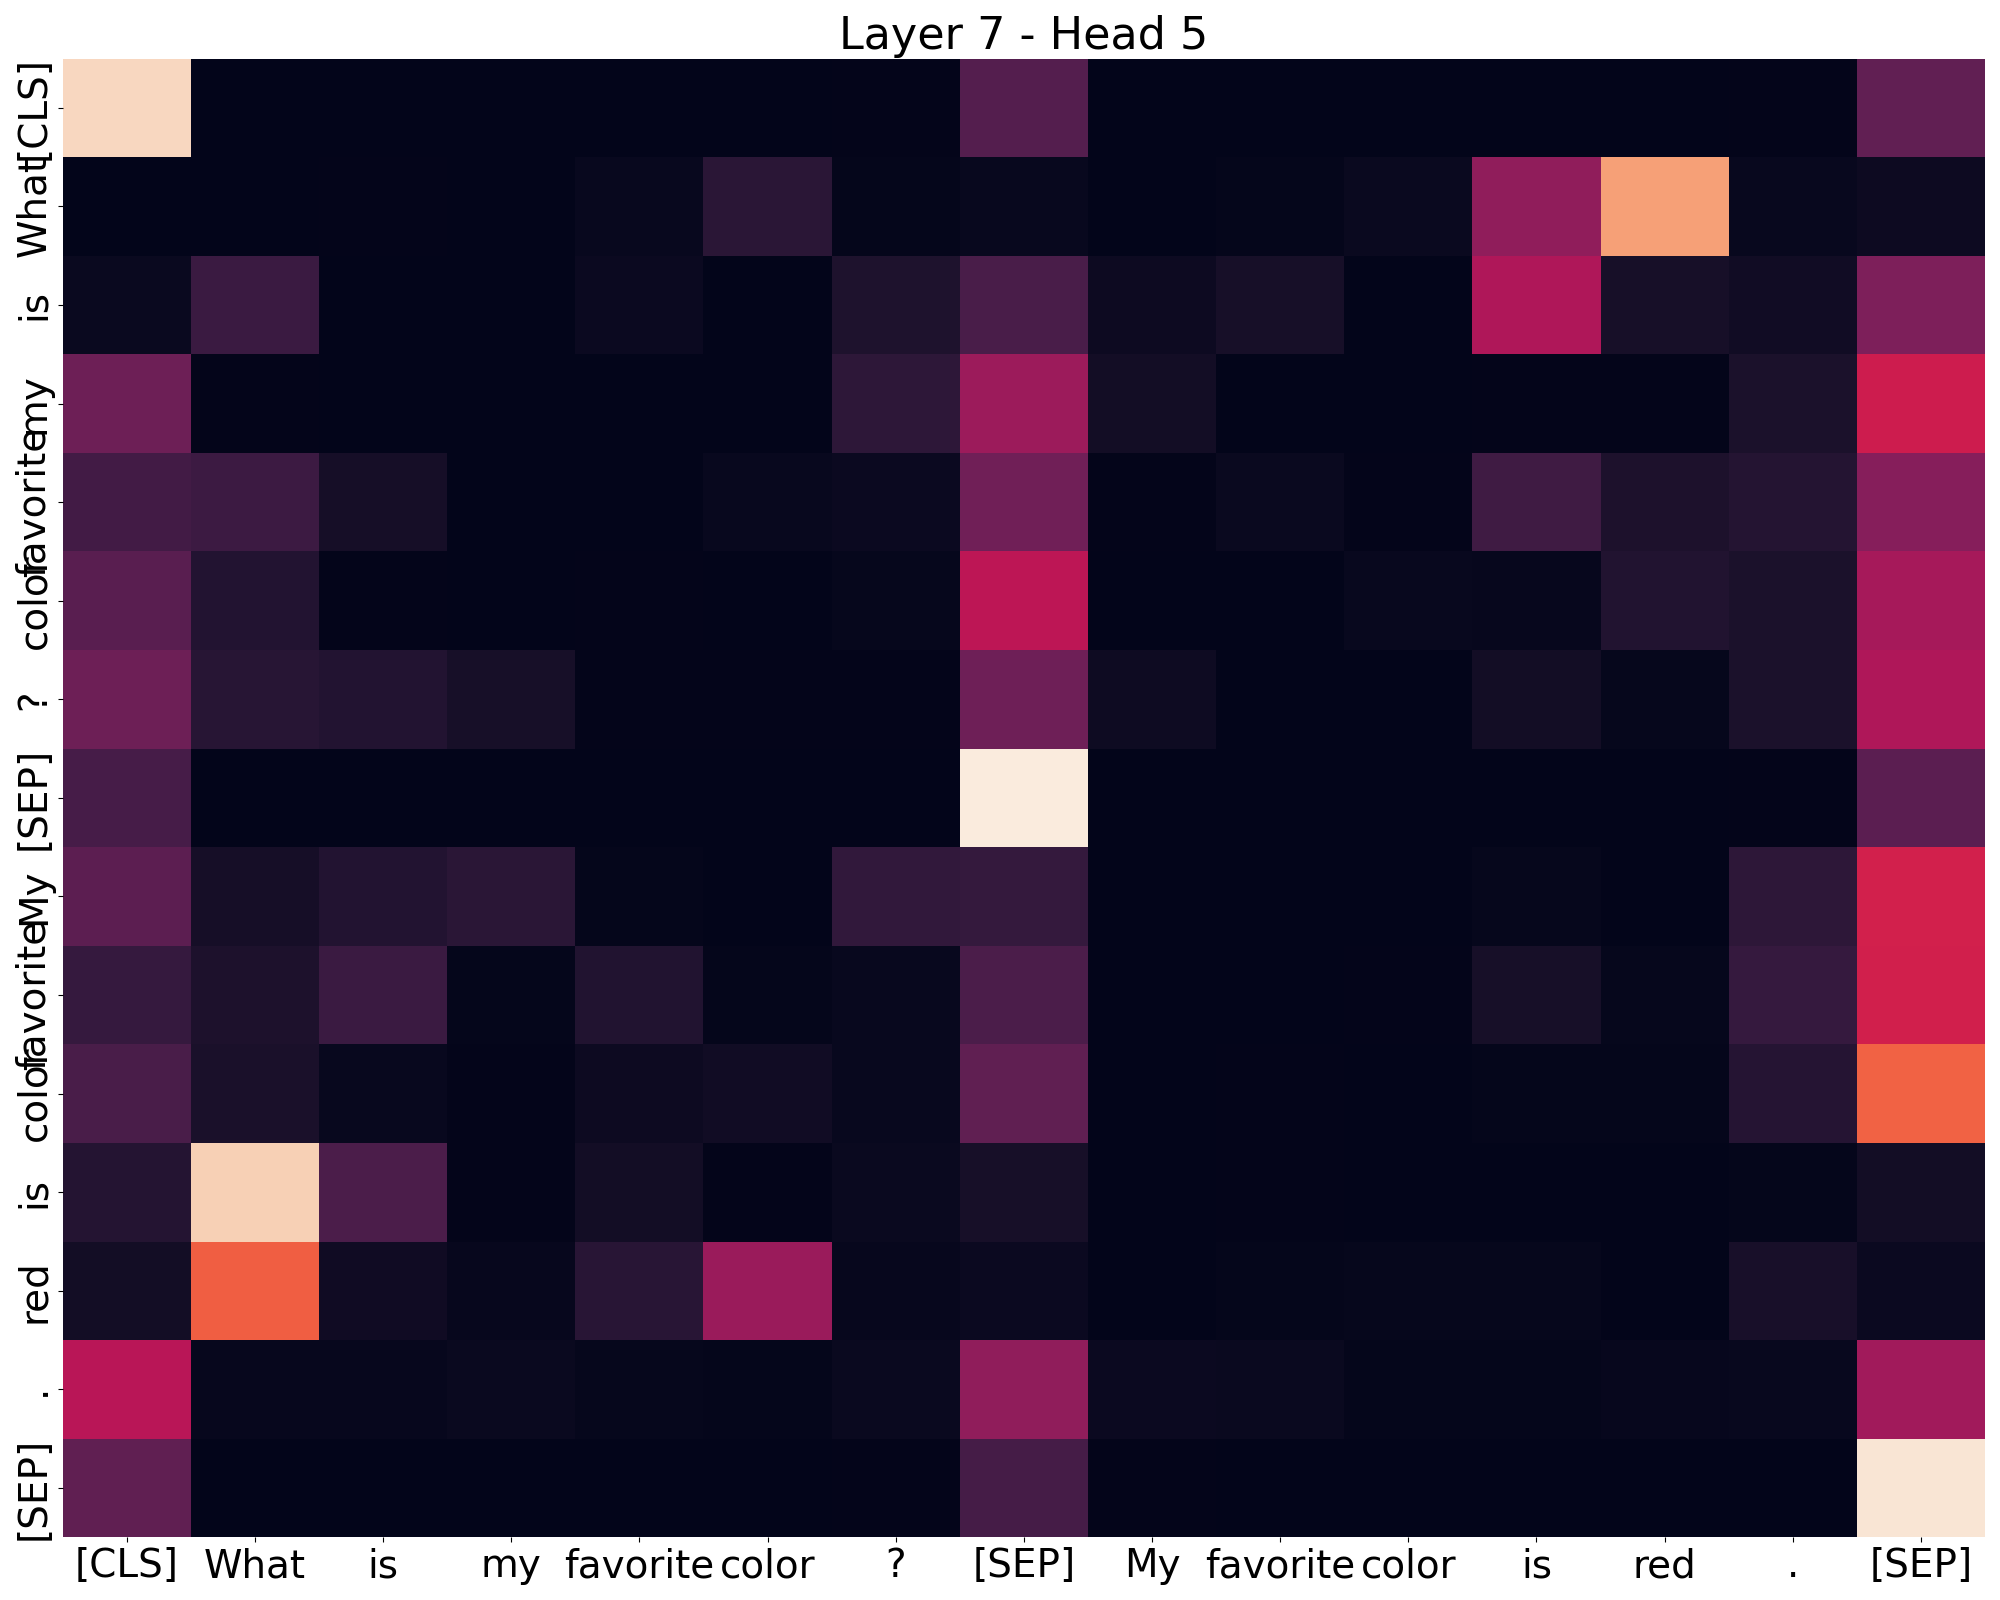
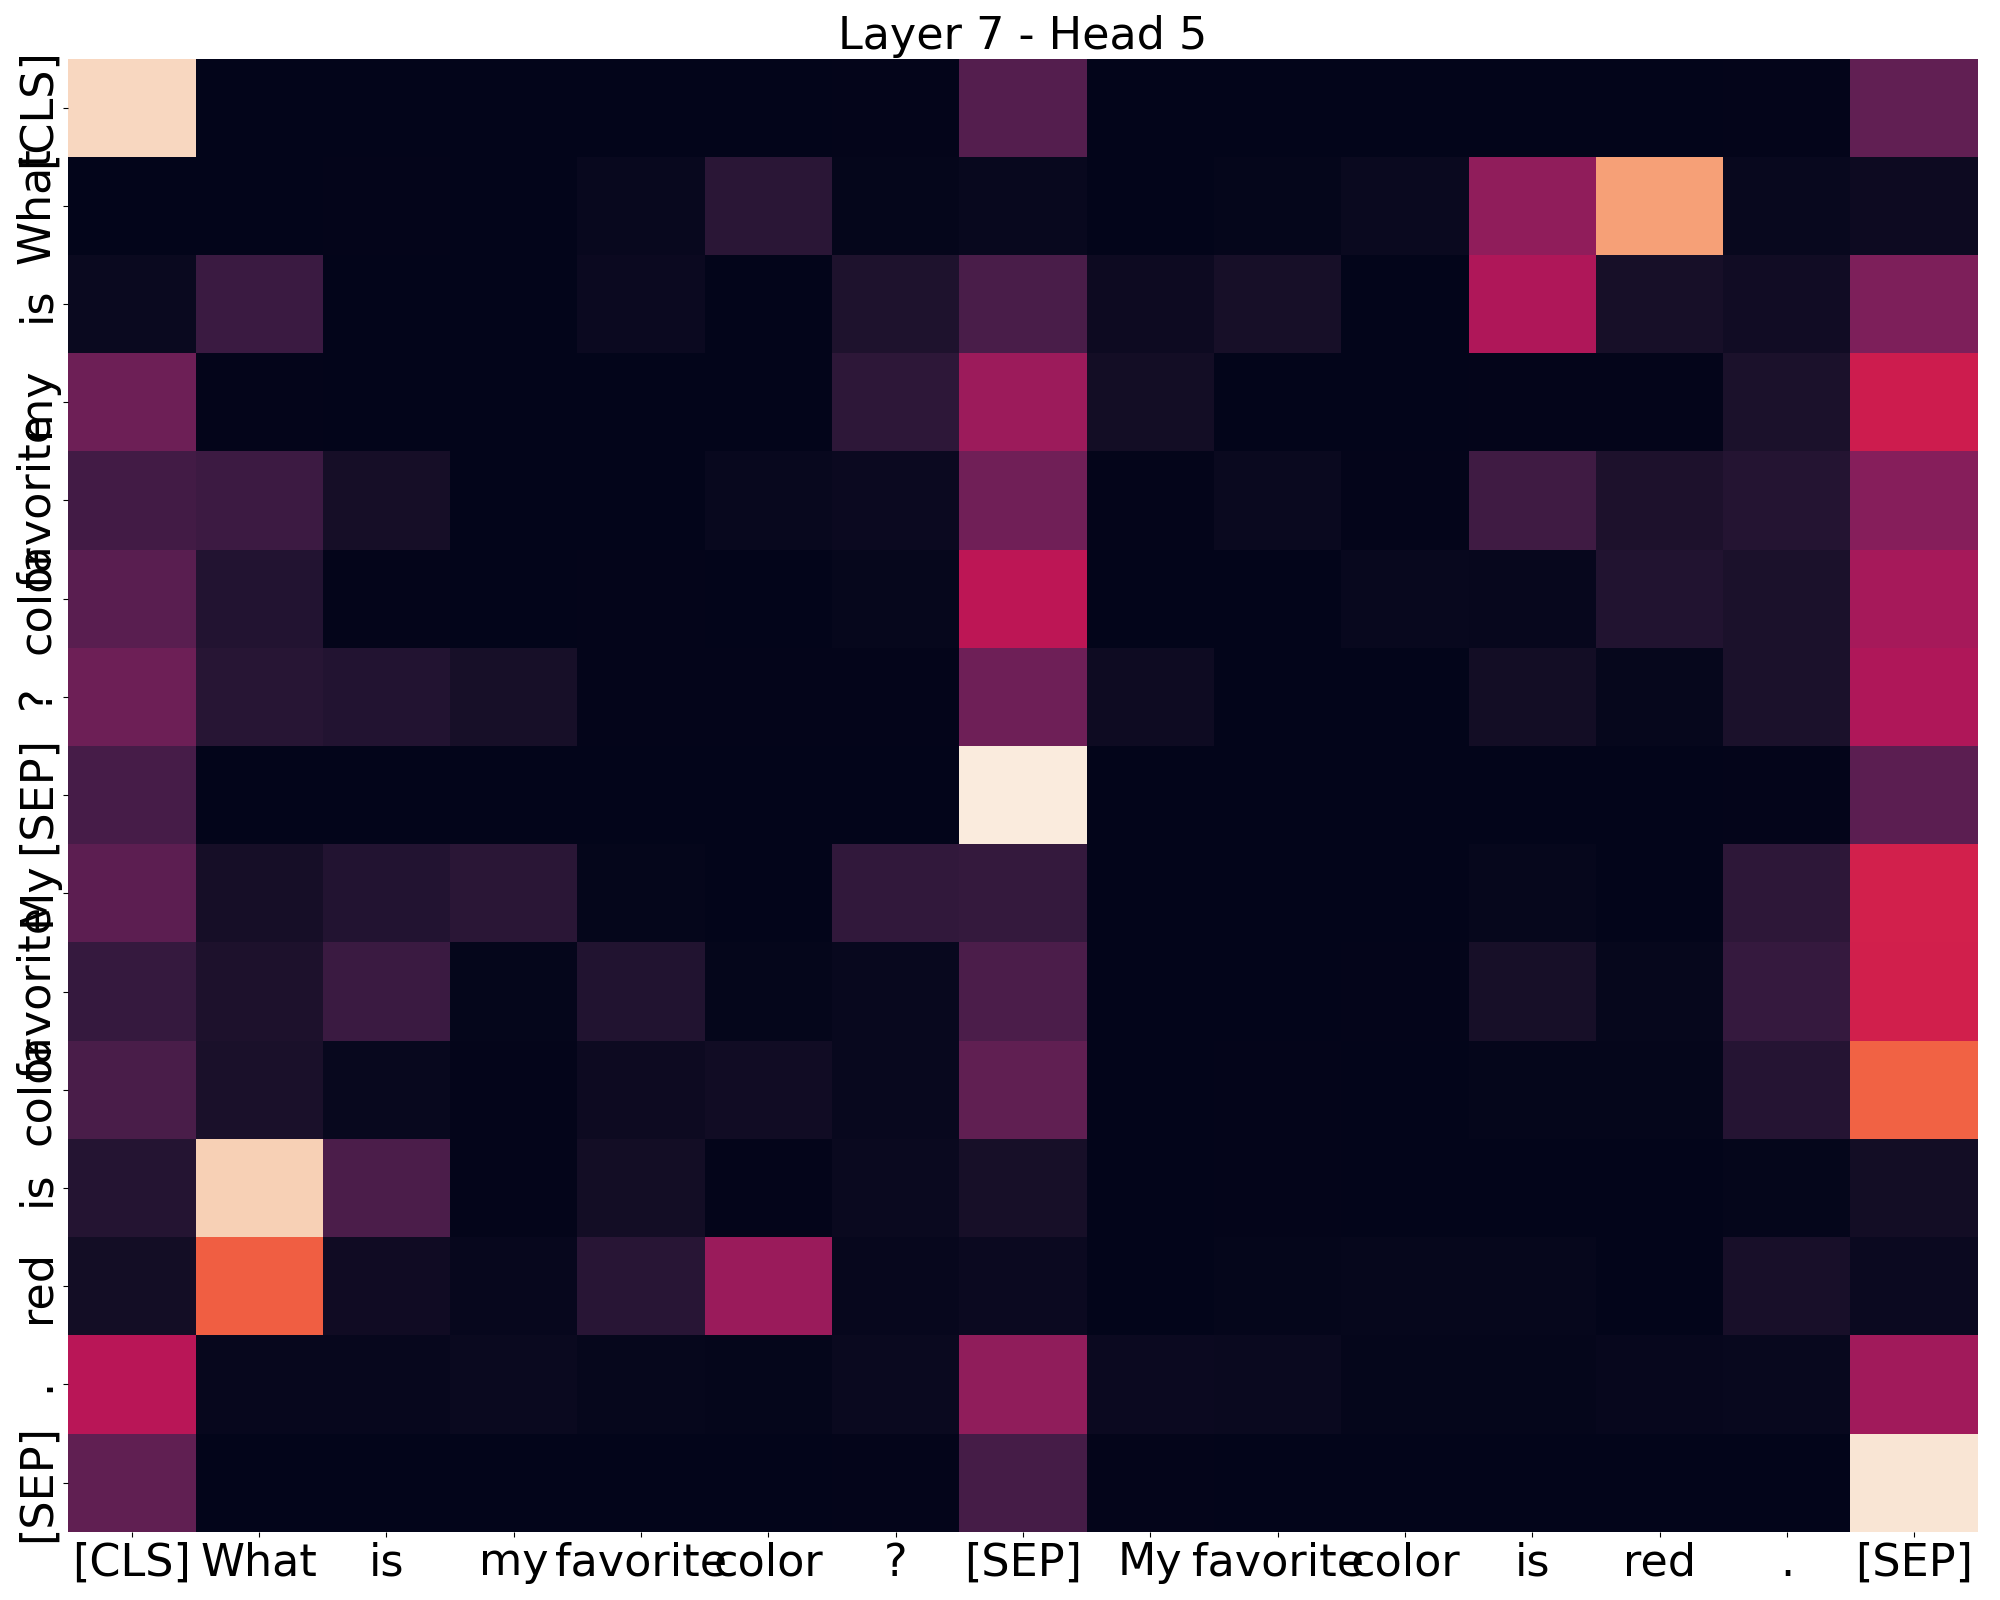
increased token font size

diff --git a/src/attention_analysis.py b/src/attention_analysis.py
@@ -78,8 +78,8 @@ def visualize_single_attention_head(attentions, tokens, layer_num, head_num, sav
     sns.heatmap(attention_head, xticklabels=tokens, yticklabels=tokens, ax=ax, cbar=False)
     ax.set_title(f'Layer {layer_num} - Head {head_num}', fontsize=32)
 
-    ax.tick_params(axis='x', labelsize=28)
-    ax.tick_params(axis='y', labelsize=28)
+    ax.tick_params(axis='x', labelsize=32)
+    ax.tick_params(axis='y', labelsize=32)
     
     file_path = os.path.join(save_dir, f'layer_{layer_num}_head_{head_num}.png')
     plt.tight_layout()
